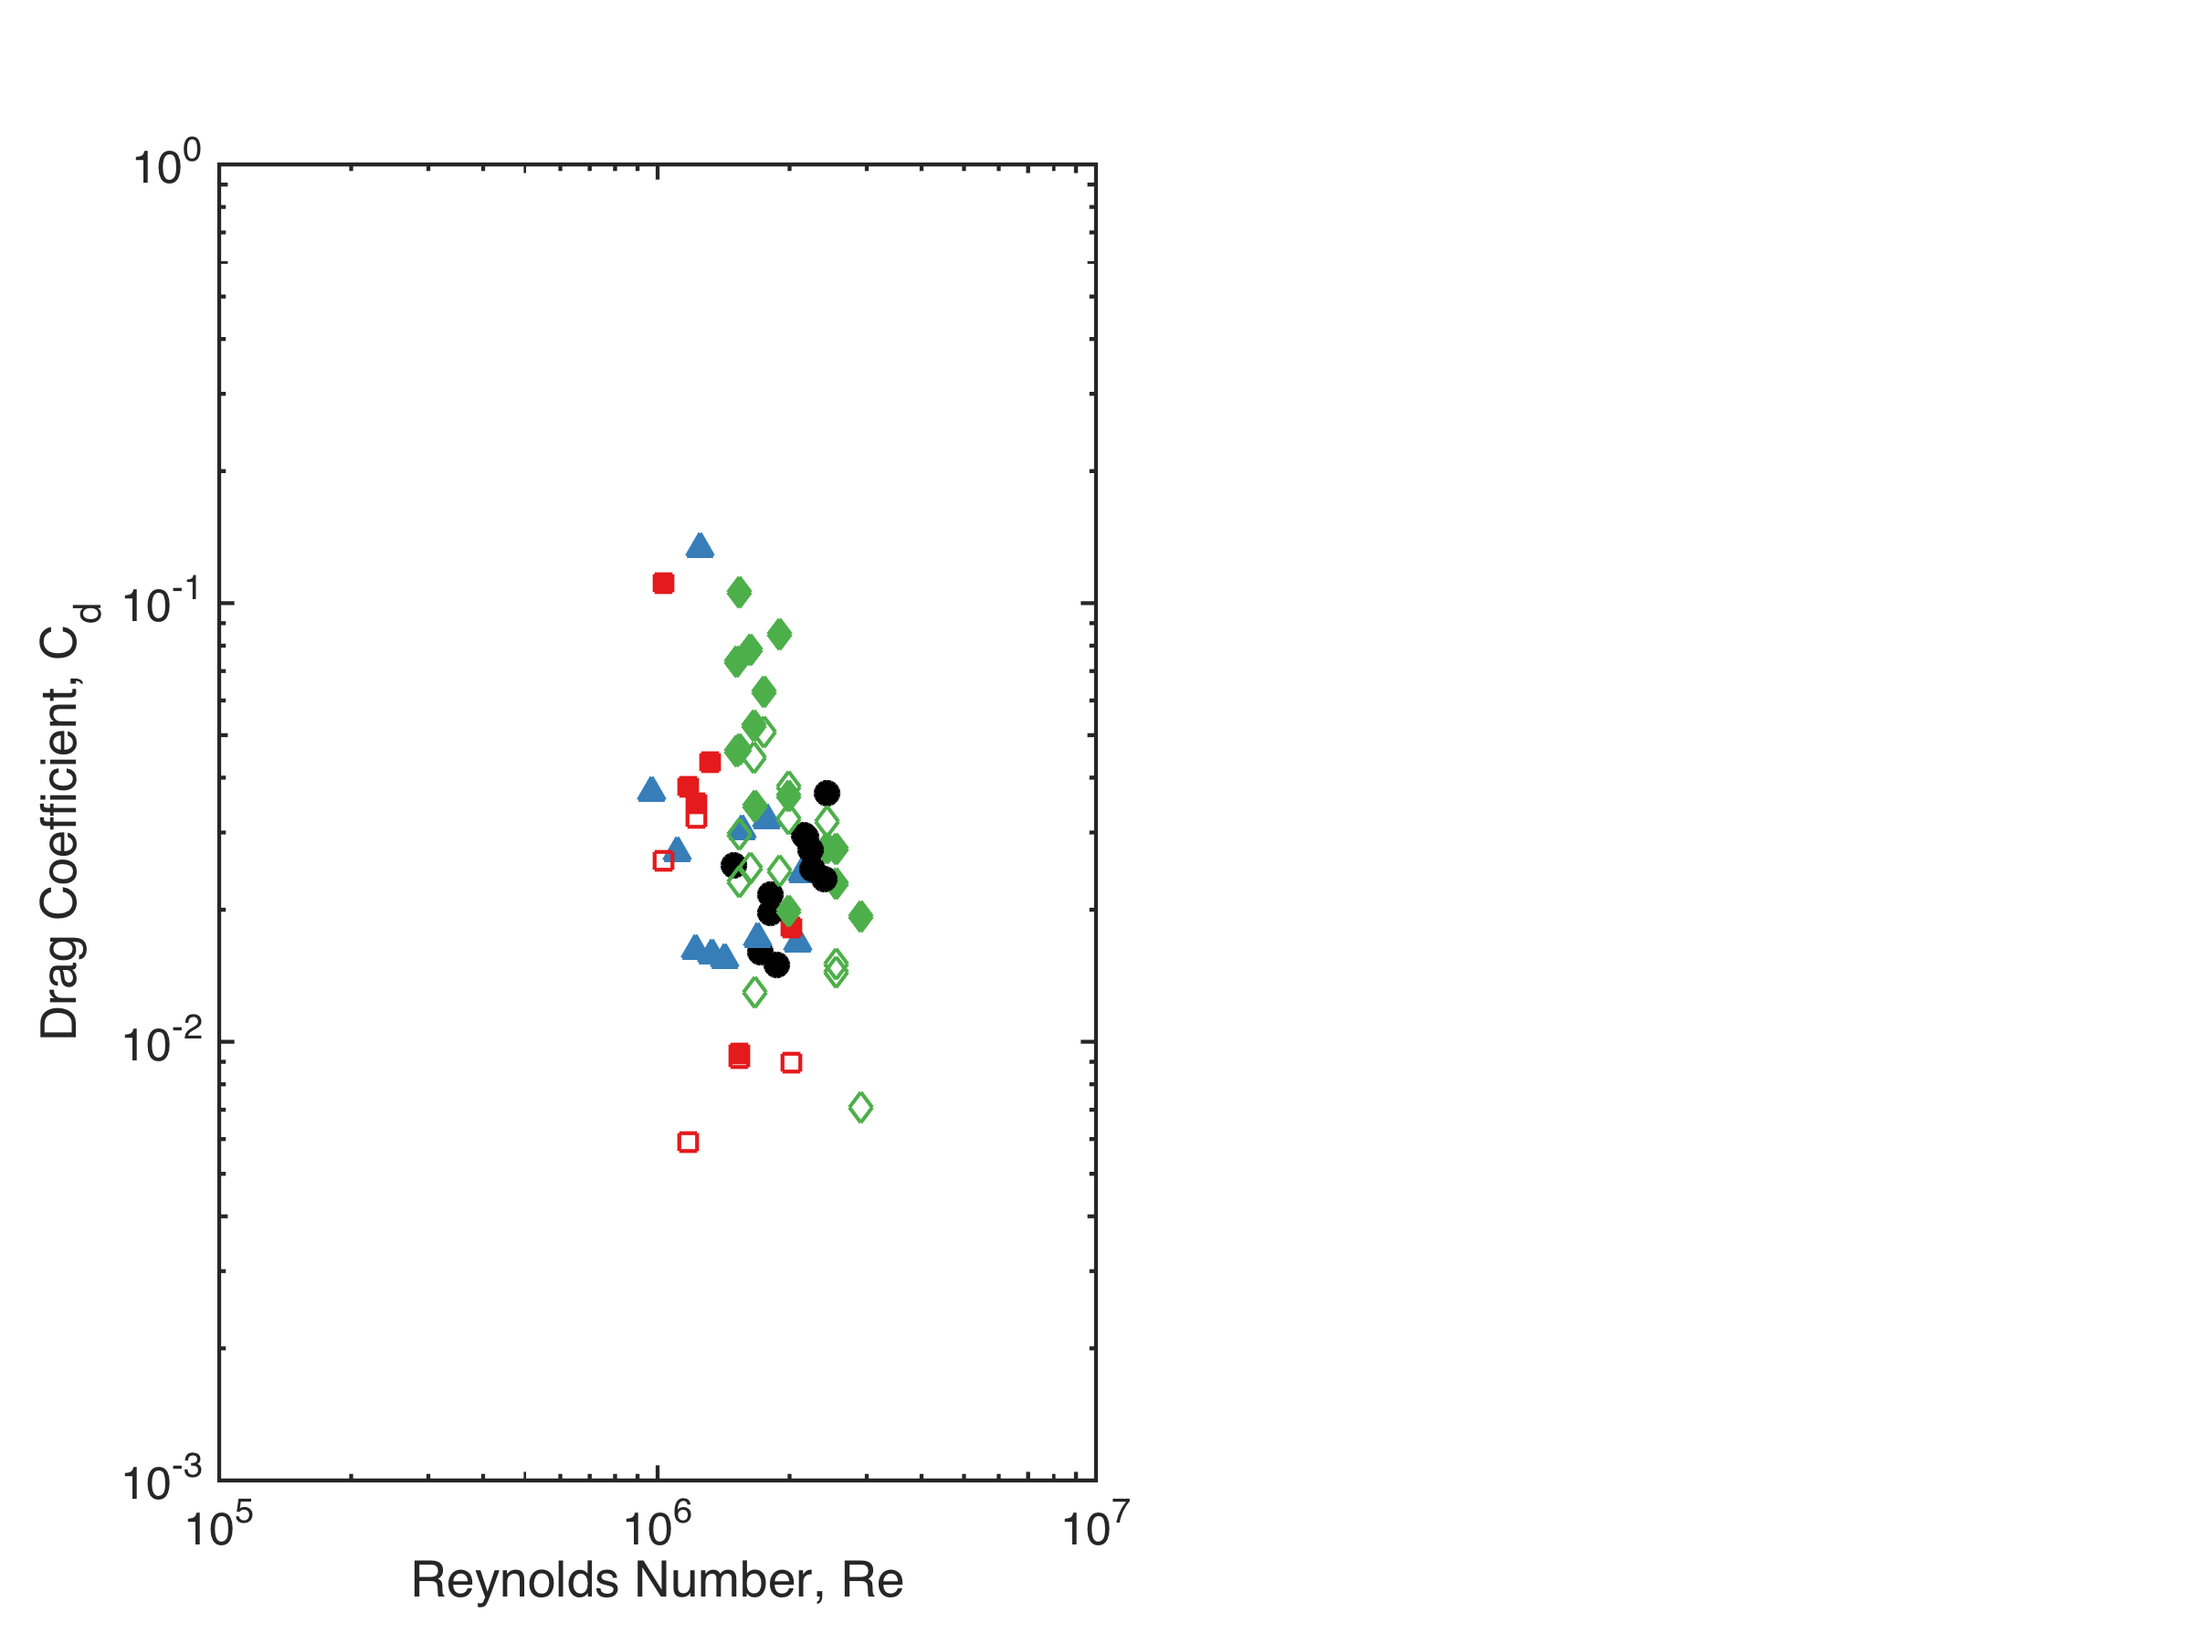
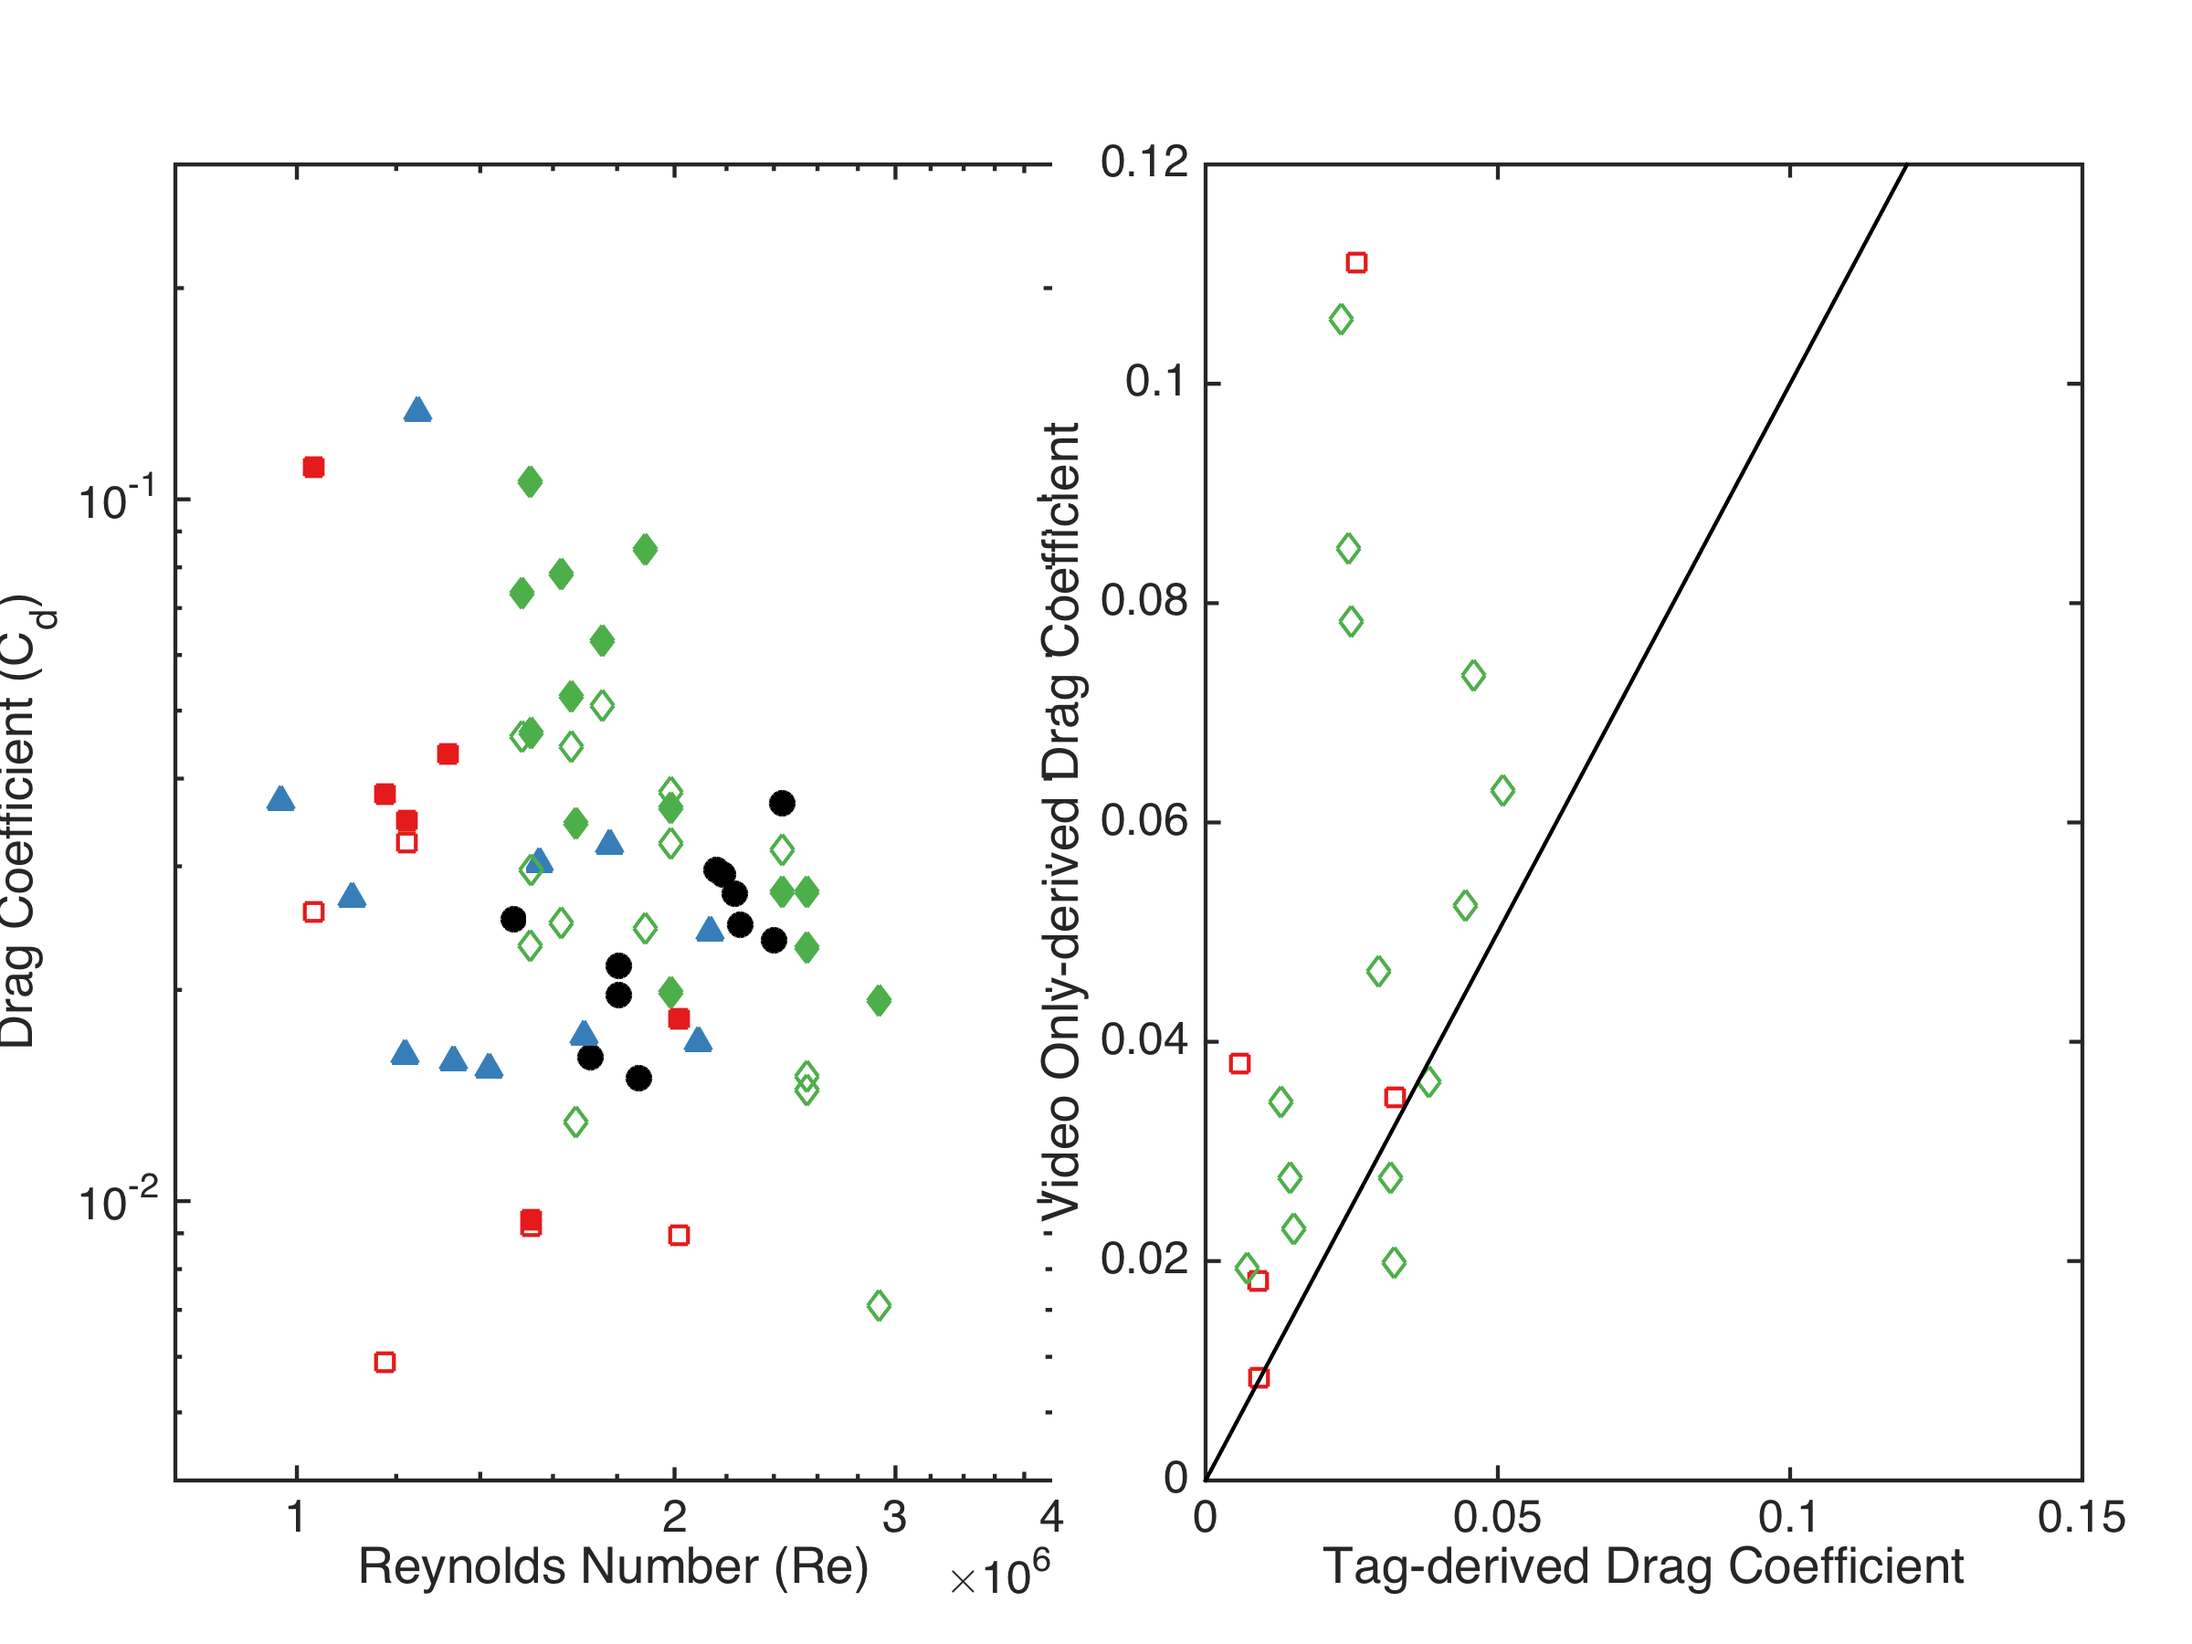
Plot Improvements

diff --git a/Glides/GlideDataPlots.m b/Glides/GlideDataPlots.m
@@ -5,7 +5,7 @@ load('Data_Readmatv6')
 % plot Cd vs. Re from Video Only glide data
 figure(1); clf; hold on
 set(gcf,'position',[1417 276 933 384])
-subplot('position',[0.1 0.1 0.4 0.8]); 
+subplot('position',[0.08 0.1 0.4 0.8]); 
 for i = 1:length(mav)
     h1 = loglog(Re(i),mav(i,5),'o'); hold on
     if mav(i,1) == 0
@@ -37,8 +37,8 @@ for i = 1:length(mav)
     end
 end
 
-xlabel('Reynolds Number, Re'); ylabel('Drag Coefficient, C_d')
-
+xlabel('Reynolds Number (Re)'); ylabel('Drag Coefficient (C_d)')
+xlim([8E5 4E6]); ylim([7E-3 1E0])
 %% plot agreement between glide vs. tag method
 subplot('position',[0.55 0.1 0.4 0.8]); hold on
 for i = 1:length(mav)
@@ -57,8 +57,9 @@ end
 plot([0 0.12],[0 0.12],'k')
 xlabel('Tag-derived Drag Coefficient'); ylabel('Video Only-derived Drag Coefficient')
 adjustfigurefont
+box on
 cd /Users/julievanderhoop/Documents/MATLAB/DQ/DQ2013/AnalysisFigs
-print('VideoOnly_Cd','-dpng','-r300')
+print('VideoTag_Cd','-dpng','-r300')
 
 %% summary statistics tag glide data
 nanmean(nanmean([Cdtag1(mav(:,1) == 3) Cdtag2(mav(:,1) == 3)]));
@@ -97,3 +98,4 @@ loglog(Re,nanmean([Cdtag1 Cdtag2]'),'*');
 
 xlabel('Reynolds Number (Re)'); ylabel('Drag Coefficient (Cd)')
 adjustfigurefont
+print('AllCdData','-dpng','-r300')
